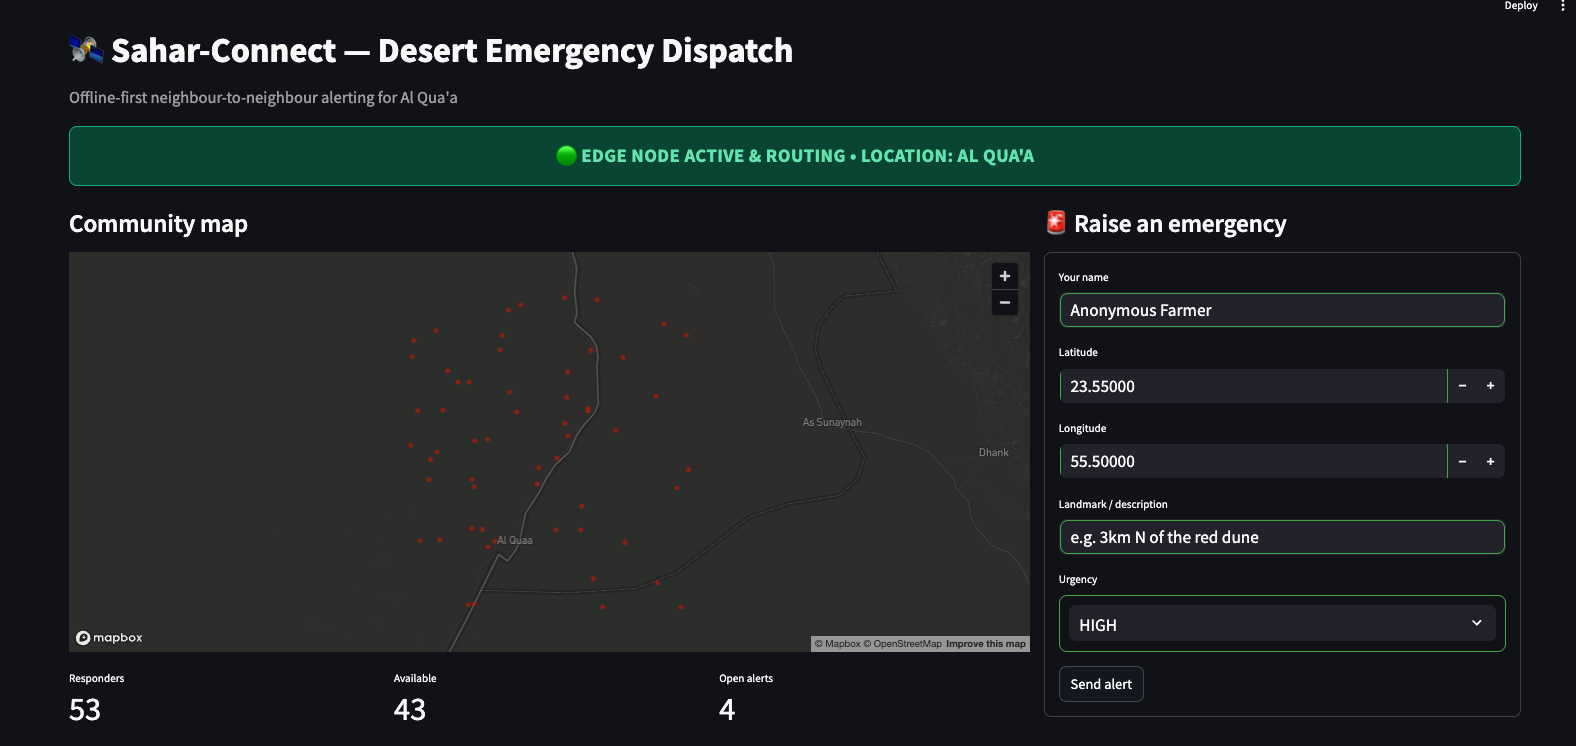
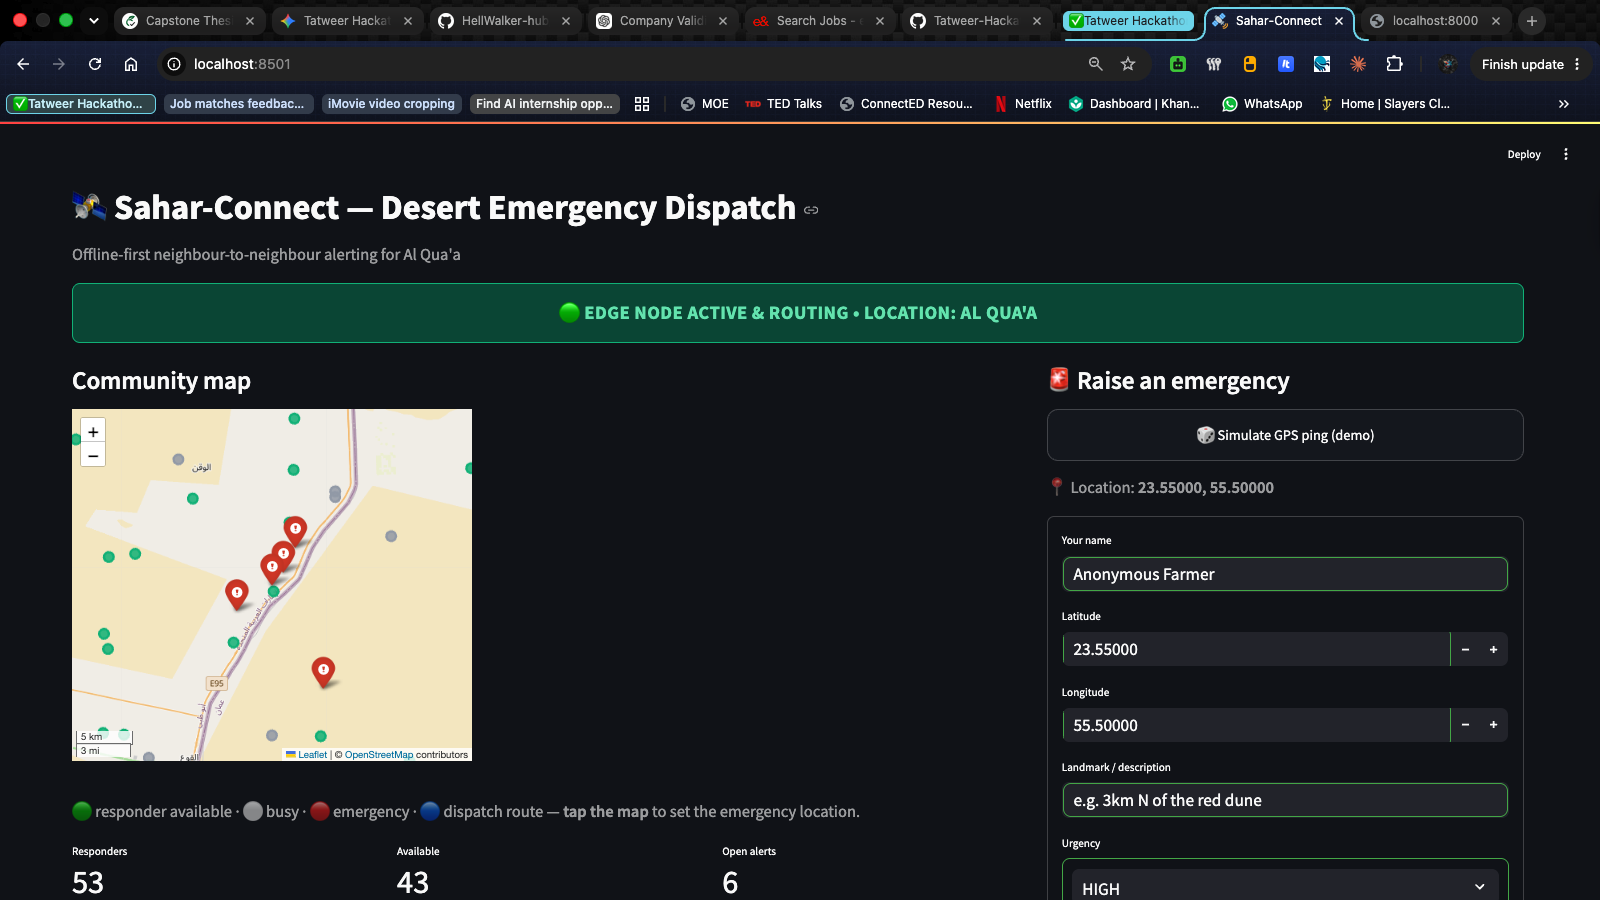
Phase 1: close the software last-mile (location, map, notification)
Turns the dashboard from a skeleton into a believable product:

1. Location capture — tap-to-place on the map (offline-robust, no secure
   context needed) + a "Simulate GPS ping" button; manual lat/lon still work.
2. Map clarity — switched st.map -> folium: green available responders,
   gray busy, red emergencies, and a blue dispatch route line from the alert
   to the matched responder. Legend added.
3. Feedback loop — on dispatch, show a simulated SMS payload (To/urgency/
   coords/nearest unit/ETA) + a "Responder view" expander. ETA estimated from
   the real Haversine distance at 40 km/h.

Backend: /alerts/create now also returns responder_lat/responder_lon so the
dashboard can draw the dispatch route. Deps: folium, streamlit-folium.

diff --git a/src/dashboard/app.py b/src/dashboard/app.py
@@ -1,23 +1,31 @@
 """
 app.py — Sahar-Connect emergency dashboard (Streamlit).
 
-A lightweight kiosk/operator UI that talks to the edge API and proves the whole
-loop end-to-end:
-  1. shows the edge node is online,
-  2. plots responders + active alerts on a map of Al Qua'a,
-  3. lets a farmer raise an alert and instantly shows the nearest responder.
+Kiosk/operator UI that talks to the edge API and proves the whole loop:
+  health -> map of responders & emergencies -> raise an alert -> nearest
+  responder dispatched, with a simulated SMS notification.
+
+Phase-1 UX:
+  - location capture: tap the map (offline-robust) or "Simulate GPS ping"
+  - map clarity: green responders, red emergencies, blue dispatch route
+  - feedback loop: simulated SMS payload + responder view
 
 Run it (with the edge API also running):
     streamlit run src/dashboard/app.py
 """
 
 import os
+import random
 
+import folium
 import pandas as pd
 import requests
 import streamlit as st
+from streamlit_folium import st_folium
 
 EDGE_API_URL = os.getenv("EDGE_API_URL", "http://localhost:8000")
+AL_QUAA = (23.55, 55.50)        # community centre (lat, lon)
+ASSUMED_SPEED_KMH = 40          # desert response vehicle, used for ETA estimates
 
 st.set_page_config(page_title="Sahar-Connect", page_icon="🛰️", layout="wide")
 
@@ -27,23 +35,25 @@ st.set_page_config(page_title="Sahar-Connect", page_icon="🛰️", layout="wide
 st.markdown(
     """
     <style>
-        /* Larger base typography for readability */
         html { font-size: 18px; }
         h1 { font-size: 2.4rem !important; }
         label, .stMarkdown p { font-size: 1.15rem !important; }
 
         /* Massive, high-contrast emergency button */
-        .stButton > button {
+        .stButton > button, .stFormSubmitButton > button {
             width: 100%;
-            min-height: 80px;
-            background-color: #FF4B4B !important;
-            color: #ffffff !important;
-            font-size: 1.5rem !important;
+            min-height: 64px;
+            font-size: 1.3rem !important;
             font-weight: 800 !important;
             border-radius: 14px;
+        }
+        .stFormSubmitButton > button {
+            background-color: #FF4B4B !important;
+            color: #ffffff !important;
+            min-height: 80px;
             border: 3px solid #ffffff;
         }
-        .stButton > button:hover { background-color: #e03e3e !important; }
+        .stFormSubmitButton > button:hover { background-color: #e03e3e !important; }
 
         /* Large, clearly-bordered input fields (easy touch targets) */
         .stTextInput input, .stNumberInput input,
@@ -62,6 +72,13 @@ st.markdown(
         }
         .status-online  { background-color: #064E3B; color: #6EE7B7; border: 2px solid #10B981; }
         .status-offline { background-color: #7F1D1D; color: #FCA5A5; border: 2px solid #EF4444; }
+
+        /* Simulated SMS dispatch payload */
+        .sms-payload {
+            background-color: #0F172A; color: #93C5FD; border: 2px dashed #3B82F6;
+            border-radius: 10px; padding: 14px; margin-top: 12px;
+            font-family: ui-monospace, Menlo, monospace; font-size: 1.0rem; line-height: 1.6;
+        }
     </style>
     """,
     unsafe_allow_html=True,
@@ -70,7 +87,13 @@ st.markdown(
 st.title("🛰️ Sahar-Connect — Desert Emergency Dispatch")
 st.caption("Offline-first neighbour-to-neighbour alerting for Al Qua'a")
 
-# --- 1. Health -------------------------------------------------------------
+# --- session state ---------------------------------------------------------
+st.session_state.setdefault("lat_input", AL_QUAA[0])
+st.session_state.setdefault("lon_input", AL_QUAA[1])
+st.session_state.setdefault("last_dispatch", None)      # for the map route line
+st.session_state.setdefault("last_notification", None)  # for the SMS panel
+
+# --- health (styled, honest online/offline state) --------------------------
 try:
     health = requests.get(f"{EDGE_API_URL}/health", timeout=3).json()
     location = str(health.get("location", "unknown")).upper()
@@ -100,58 +123,153 @@ alerts = fetch("/alerts")
 
 col_map, col_form = st.columns([2, 1])
 
-# --- 2. Map ----------------------------------------------------------------
+# --- map: green responders, red emergencies, blue dispatch route -----------
 with col_map:
     st.subheader("Community map")
-    points = []
+
+    fmap = folium.Map(location=AL_QUAA, zoom_start=11, control_scale=True)
+
     for r in responders:
-        points.append({"lat": r["lat"], "lon": r["lon"]})
+        available = r["available"]
+        colour = "#10B981" if available else "#9CA3AF"
+        folium.CircleMarker(
+            location=[r["lat"], r["lon"]],
+            radius=6,
+            color=colour,
+            fill=True,
+            fill_color=colour,
+            fill_opacity=0.85,
+            tooltip=f"{r['name']} — {'available' if available else 'busy'} ({r['type']})",
+        ).add_to(fmap)
+
     for a in alerts:
         if not a["resolved"]:
-            points.append({"lat": a["lat"], "lon": a["lon"]})
-    if points:
-        st.map(pd.DataFrame(points), zoom=9)
-    else:
-        st.info("No data yet — run `python -m src.ai_modules.generate_mock_data`.")
+            folium.Marker(
+                location=[a["lat"], a["lon"]],
+                icon=folium.Icon(color="red", icon="exclamation-sign"),
+                tooltip=f"🚨 {a['farmer_name']} — {a['urgency']}: {a['landmark'] or ''}",
+            ).add_to(fmap)
+
+    dispatch = st.session_state.last_dispatch
+    if dispatch and dispatch.get("responder_lat") is not None:
+        folium.PolyLine(
+            [
+                [dispatch["alert_lat"], dispatch["alert_lon"]],
+                [dispatch["responder_lat"], dispatch["responder_lon"]],
+            ],
+            color="#3B82F6",
+            weight=4,
+            opacity=0.9,
+            dash_array="8",
+            tooltip=f"Dispatch route → {dispatch['name']} ({dispatch['distance']} km)",
+        ).add_to(fmap)
+
+    map_state = st_folium(fmap, height=440, returned_objects=["last_clicked"])
+
+    # Tap-to-place: a click sets the emergency location (works fully offline).
+    if map_state and map_state.get("last_clicked"):
+        st.session_state.lat_input = round(map_state["last_clicked"]["lat"], 5)
+        st.session_state.lon_input = round(map_state["last_clicked"]["lng"], 5)
+
+    st.caption(
+        "🟢 responder available · ⚪ busy · 🔴 emergency · 🔵 dispatch route — "
+        "**tap the map** to set the emergency location."
+    )
 
     c1, c2, c3 = st.columns(3)
     c1.metric("Responders", len(responders))
     c2.metric("Available", sum(1 for r in responders if r["available"]))
     c3.metric("Open alerts", sum(1 for a in alerts if not a["resolved"]))
 
-# --- 3. Raise an alert -----------------------------------------------------
+# --- raise an alert --------------------------------------------------------
 with col_form:
     st.subheader("🚨 Raise an emergency")
-    with st.form("alert_form", clear_on_submit=True):
-        farmer_name = st.text_input("Your name", "Anonymous Farmer")
-        lat = st.number_input("Latitude", value=23.55, format="%.5f")
-        lon = st.number_input("Longitude", value=55.50, format="%.5f")
-        description = st.text_input("Landmark / description",
-                                    "e.g. 3km N of the red dune")
-        urgency = st.selectbox("Urgency", ["HIGH", "CRITICAL"])
-        submitted = st.form_submit_button("Send alert")
 
-        if submitted:
-            payload = {
-                "farmer_name": farmer_name,
-                "lat": lat,
-                "lon": lon,
-                "description": description,
-                "urgency": urgency,
-            }
+    # Simulate a hardware GPS ping (drops within ~5 km of Al Qua'a). On a real
+    # phone this is replaced by the device GPS; tap-to-place is the offline path.
+    if st.button("🎲 Simulate GPS ping (demo)"):
+        st.session_state.lat_input = round(AL_QUAA[0] + random.uniform(-0.045, 0.045), 5)
+        st.session_state.lon_input = round(AL_QUAA[1] + random.uniform(-0.045, 0.045), 5)
+        st.rerun()
+
+    st.caption(
+        f"📍 Location: **{st.session_state.lat_input:.5f}, "
+        f"{st.session_state.lon_input:.5f}**"
+    )
+
+    with st.form("alert_form", clear_on_submit=False):
+        farmer_name = st.text_input("Your name", "Anonymous Farmer")
+        lat = st.number_input("Latitude", format="%.5f", key="lat_input")
+        lon = st.number_input("Longitude", format="%.5f", key="lon_input")
+        description = st.text_input("Landmark / description", "e.g. 3km N of the red dune")
+        urgency = st.selectbox("Urgency", ["HIGH", "CRITICAL"])
+        submitted = st.form_submit_button("🚨 Send alert")
+
+    if submitted:
+        payload = {
+            "farmer_name": farmer_name,
+            "lat": lat,
+            "lon": lon,
+            "description": description,
+            "urgency": urgency,
+        }
+        try:
             resp = requests.post(
                 f"{EDGE_API_URL}/alerts/create", json=payload, timeout=5
             ).json()
-            st.success(f"Alert #{resp['alert_id']} — {resp['status']}")
-            if resp.get("distance_km") is not None:
-                st.info(
-                    f"Nearest responder: **{resp['closest_responder']}** "
-                    f"({resp['responder_type']}) — {resp['distance_km']} km away"
-                )
-            else:
-                st.warning(resp["closest_responder"])
+        except requests.RequestException as exc:
+            st.error(f"Could not reach edge API: {exc}")
+            resp = None
 
-# --- 4. Alert log ----------------------------------------------------------
+        if resp:
+            dist = resp.get("distance_km")
+            eta = round(dist / ASSUMED_SPEED_KMH * 60) if dist else None
+            st.session_state.last_dispatch = {
+                "alert_lat": lat,
+                "alert_lon": lon,
+                "responder_lat": resp.get("responder_lat"),
+                "responder_lon": resp.get("responder_lon"),
+                "name": resp.get("closest_responder"),
+                "distance": dist,
+            }
+            st.session_state.last_notification = {
+                "alert_id": resp.get("alert_id"),
+                "name": resp.get("closest_responder"),
+                "rtype": resp.get("responder_type"),
+                "dist": dist,
+                "eta": eta,
+                "phone": f"+971-50-{random.randint(100, 999)}-{random.randint(1000, 9999)}",
+                "lat": lat,
+                "lon": lon,
+                "urgency": urgency,
+            }
+            st.rerun()
+
+    # Feedback loop: persistent "last dispatch" panel with a simulated SMS.
+    note = st.session_state.last_notification
+    if note:
+        if note["dist"] is not None:
+            st.success(
+                f"✅ Alert #{note['alert_id']} dispatched → **{note['name']}** "
+                f"({note['rtype']}) · {note['dist']} km · ETA ~{note['eta']} min"
+            )
+            st.markdown(
+                '<div class="sms-payload">📨 SMS PAYLOAD GENERATED<br>'
+                f'To: {note["phone"]}<br>'
+                f'{note["urgency"]} alert at {note["lat"]:.5f}, {note["lon"]:.5f}<br>'
+                f'Nearest unit: {note["name"]} · ETA ~{note["eta"]} min</div>',
+                unsafe_allow_html=True,
+            )
+            with st.expander("📟 Responder view — what the dispatched unit receives"):
+                st.markdown(f"### 🚨 {note['urgency']} ALERT")
+                st.write(f"**Assigned to:** {note['name']} ({note['rtype']})")
+                st.write(f"**Location:** {note['lat']:.5f}, {note['lon']:.5f}")
+                st.write(f"**Distance:** {note['dist']} km · **ETA:** ~{note['eta']} min")
+                st.map(pd.DataFrame([{"lat": note["lat"], "lon": note["lon"]}]), zoom=11)
+        else:
+            st.warning(f"Alert #{note['alert_id']} logged — broadcast to all neighbours.")
+
+# --- alert log -------------------------------------------------------------
 st.subheader("Alert log")
 if alerts:
     st.dataframe(pd.DataFrame(alerts), use_container_width=True)

diff --git a/src/edge_api/main.py b/src/edge_api/main.py
@@ -87,6 +87,8 @@ def create_alert(payload: AlertIn, db: Session = Depends(get_db)):
         "closest_responder": nearest.responder_name if nearest else "Broadcast to all neighbours",
         "responder_type": nearest.responder_type if nearest else None,
         "distance_km": round(distance_km, 2) if nearest else None,
+        "responder_lat": nearest.current_lat if nearest else None,
+        "responder_lon": nearest.current_lon if nearest else None,
     }
 
 